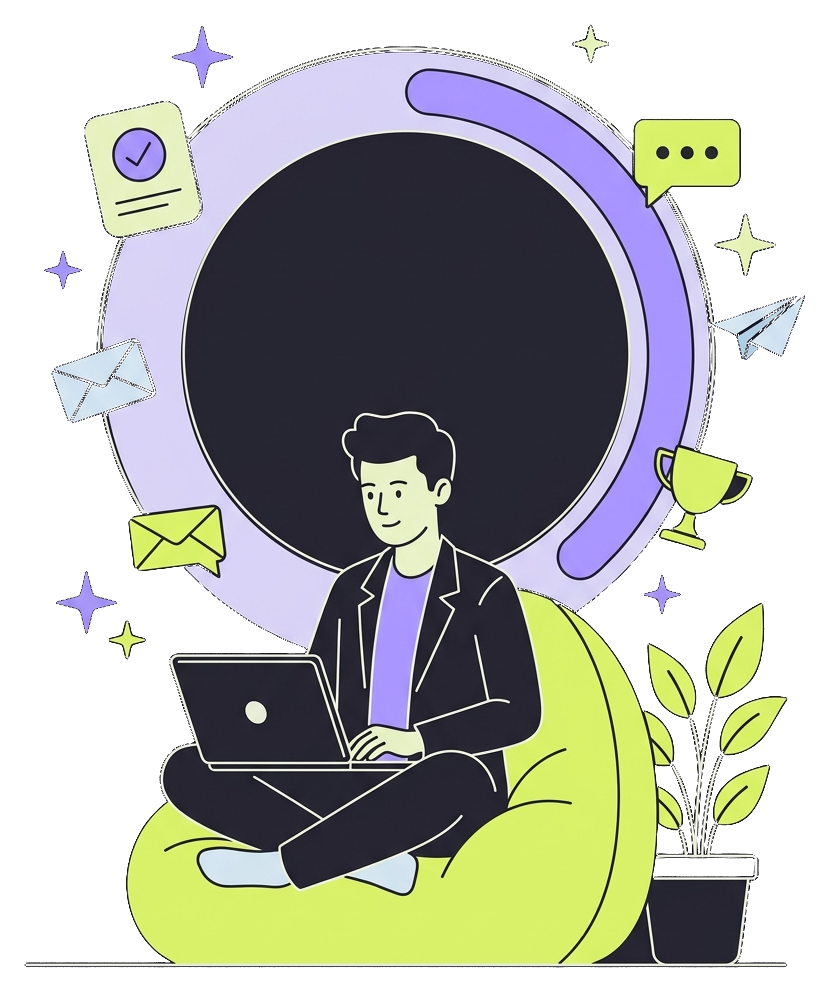
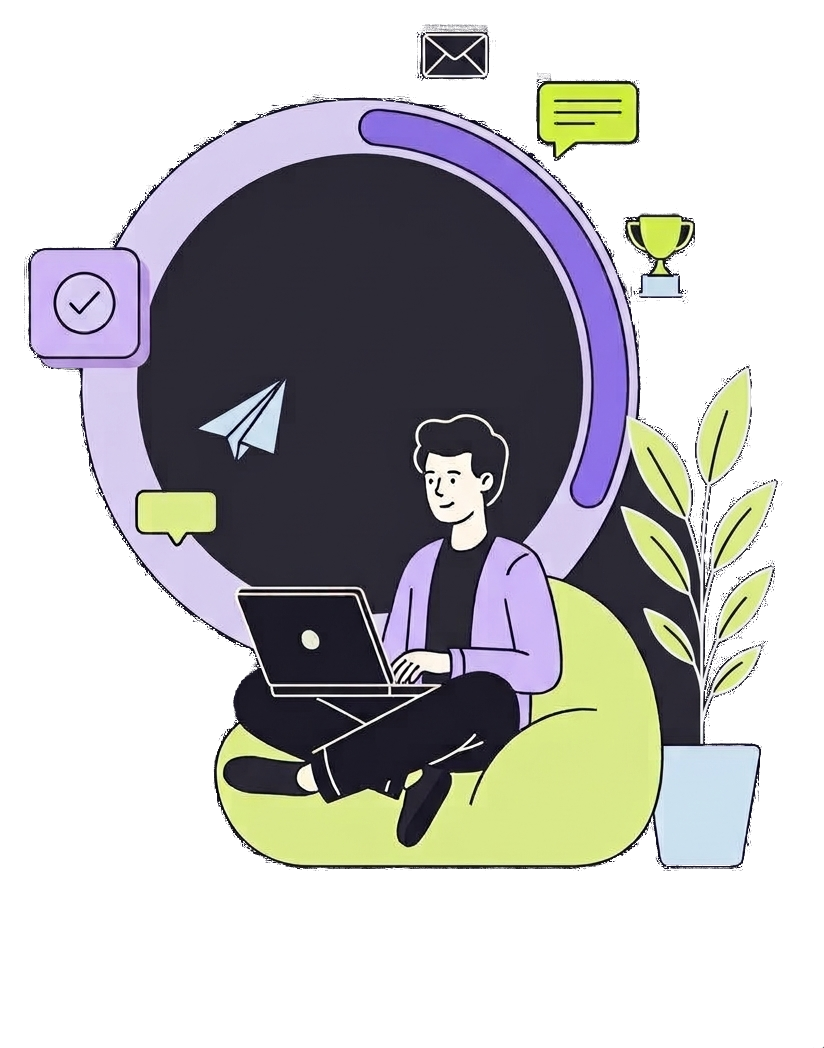
Replace hero illustrations, fix pricing section horizontal padding
New light/dark hero illustrations (cut out the same way as before:
flood-filled background removal, verified seamless against the actual
hero card background in both themes).

Pricing was rendering outside the page's shared max-w-[1400px] content
wrapper with px-0, so its content ran edge to edge instead of lining
up with the rest of the page. It's now full-bleed only for its
background, with the same mx-auto max-w-[1400px] px-5 sm:px-8 lg:px-12
inner wrapper every other section uses.

Claude-Session: https://claude.ai/code/session_01DzRGCc1qRoVkCwuezooJat

diff --git a/src/app/landing-page.tsx b/src/app/landing-page.tsx
@@ -428,39 +428,43 @@ function HowItWorks() {
 
 function Pricing() {
   return (
-    <section id="pricing" data-screen-label="Pricing" className="bg-canvas px-0 py-16 sm:py-24">
-      <div className="grid items-center gap-10 sm:gap-16 lg:grid-cols-2">
-        <div className="flex flex-col gap-3">
-          <span className="text-[13px] font-medium tracking-[0.08em] text-secondary">PRICING</span>
-          <h2 className="text-balance text-4xl font-medium leading-[1.05] tracking-[-0.04em] text-primary sm:text-5xl">
-            One plan. Cancel whenever.
-          </h2>
-          <span className="max-w-[440px] text-lg leading-[1.55] text-secondary text-balance">
-            Everything included, from your first quest to Growth Mode.
-          </span>
-        </div>
-        <div className="w-full max-w-[520px] rounded-shell bg-card p-2.5 justify-self-end">
-          <div className="flex flex-col gap-2 rounded-tile bg-tile-customers p-7 text-on-tile">
-            <span className="text-sm font-medium text-tile-customers-ink">Founder</span>
-            <span className="text-[64px] font-light leading-none tracking-[-0.04em]">
-              $29<span className="text-lg text-tile-customers-ink"> / month</span>
+    <section id="pricing" data-screen-label="Pricing" className="bg-canvas py-16 sm:py-24">
+      <div className="mx-auto max-w-[1400px] px-5 sm:px-8 lg:px-12">
+        <div className="grid items-center gap-10 sm:gap-16 lg:grid-cols-2">
+          <div className="flex flex-col gap-3">
+            <span className="text-[13px] font-medium tracking-[0.08em] text-secondary">
+              PRICING
+            </span>
+            <h2 className="text-balance text-4xl font-medium leading-[1.05] tracking-[-0.04em] text-primary sm:text-5xl">
+              One plan. Cancel whenever.
+            </h2>
+            <span className="max-w-[440px] text-lg leading-[1.55] text-secondary text-balance">
+              Everything included, from your first quest to Growth Mode.
             </span>
           </div>
-          <div className="flex flex-col gap-3 px-4.5 pb-4.5 pt-3.5">
-            {PERKS.map((perk) => (
-              <div key={perk} className="flex items-center gap-3 text-[15px] text-primary">
-                <span className="grid h-[22px] w-[22px] shrink-0 place-items-center rounded-full bg-tile-level text-xs font-semibold text-on-tile">
-                  &#10003;
-                </span>
-                {perk}
-              </div>
-            ))}
-            <Link
-              href="/signup"
-              className="mt-2 flex h-[52px] items-center justify-center rounded-full bg-action text-base font-medium text-action-fg transition-colors duration-200 hover:bg-action-hover"
-            >
-              Start my quest log
-            </Link>
+          <div className="w-full max-w-[520px] rounded-shell bg-card p-2.5 justify-self-end">
+            <div className="flex flex-col gap-2 rounded-tile bg-tile-customers p-7 text-on-tile">
+              <span className="text-sm font-medium text-tile-customers-ink">Founder</span>
+              <span className="text-[64px] font-light leading-none tracking-[-0.04em]">
+                $29<span className="text-lg text-tile-customers-ink"> / month</span>
+              </span>
+            </div>
+            <div className="flex flex-col gap-3 px-4.5 pb-4.5 pt-3.5">
+              {PERKS.map((perk) => (
+                <div key={perk} className="flex items-center gap-3 text-[15px] text-primary">
+                  <span className="grid h-[22px] w-[22px] shrink-0 place-items-center rounded-full bg-tile-level text-xs font-semibold text-on-tile">
+                    &#10003;
+                  </span>
+                  {perk}
+                </div>
+              ))}
+              <Link
+                href="/signup"
+                className="mt-2 flex h-[52px] items-center justify-center rounded-full bg-action text-base font-medium text-action-fg transition-colors duration-200 hover:bg-action-hover"
+              >
+                Start my quest log
+              </Link>
+            </div>
           </div>
         </div>
       </div>
